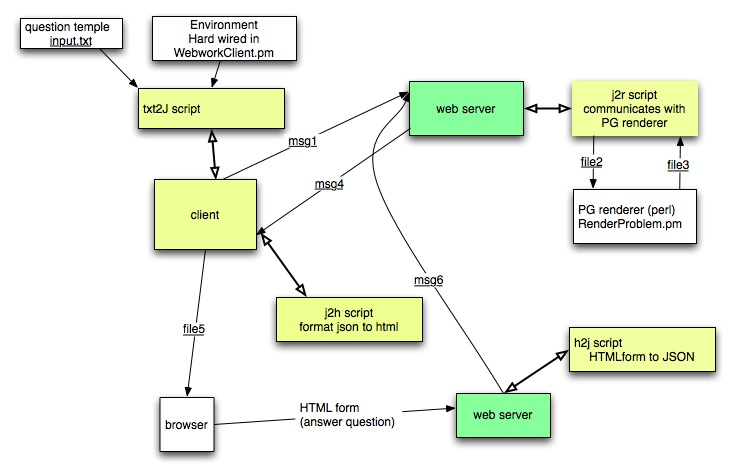
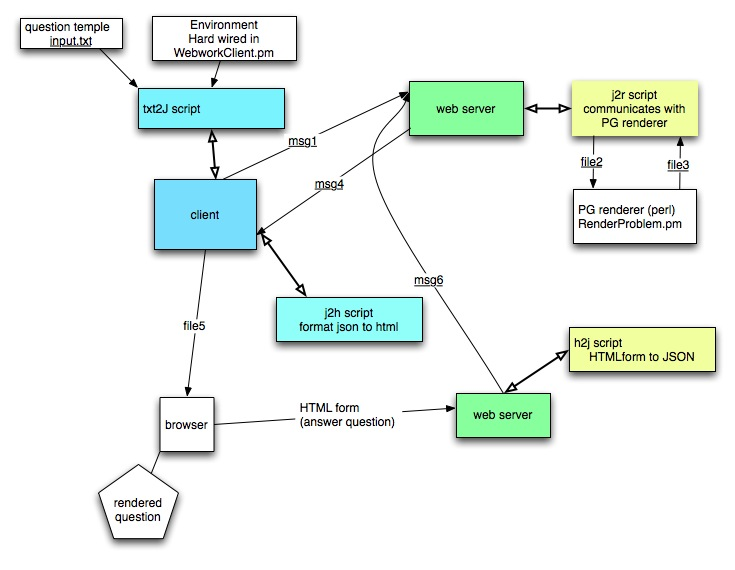
update UML diagram

diff --git a/csc253_server_project.html b/csc253_server_project.html
@@ -1,8 +1,10 @@
 <map name="GraffleExport">
-	<area shape=rect coords="178,322,212,336" href="http://mgage.github.com/standalone-question-renderer/data/file5.html">
+	<area shape=poly coords="138,464,177,492,162,538,113,538,98,492,138,464" href="file:///Users/gage/csc253_stand_alone_renderer/standalone-question-renderer/client/renderProblemOutput1.html">
+	<area shape=rect coords="294,400,401,428" href="http://mgage.github.com/standalone-question-renderer/data/file5.html">
 	<area shape=rect coords="309,176,350,190" href="http://mgage.github.com/standalone-question-renderer/data/msg4.html">
-	<area shape=rect coords="283,133,324,147" href="file5">
+	<area shape=rect coords="283,133,324,147" href="http://mgage.github.com/standalone-question-renderer/data/file2.html">
 	<area shape=rect coords="662,157,696,171" href="http://mgage.github.com/standalone-question-renderer/data/file3.html">
+	<area shape=rect coords="575,154,609,168" href="http://mgage.github.com/standalone-question-renderer/data/file2.html">
 	<area shape=rect coords="20,18,122,48" href="http://mgage.github.com/standalone-question-renderer/data/input.txt">
 </map>
 <img src="csc253_server_project.jpg" usemap="#GraffleExport">
